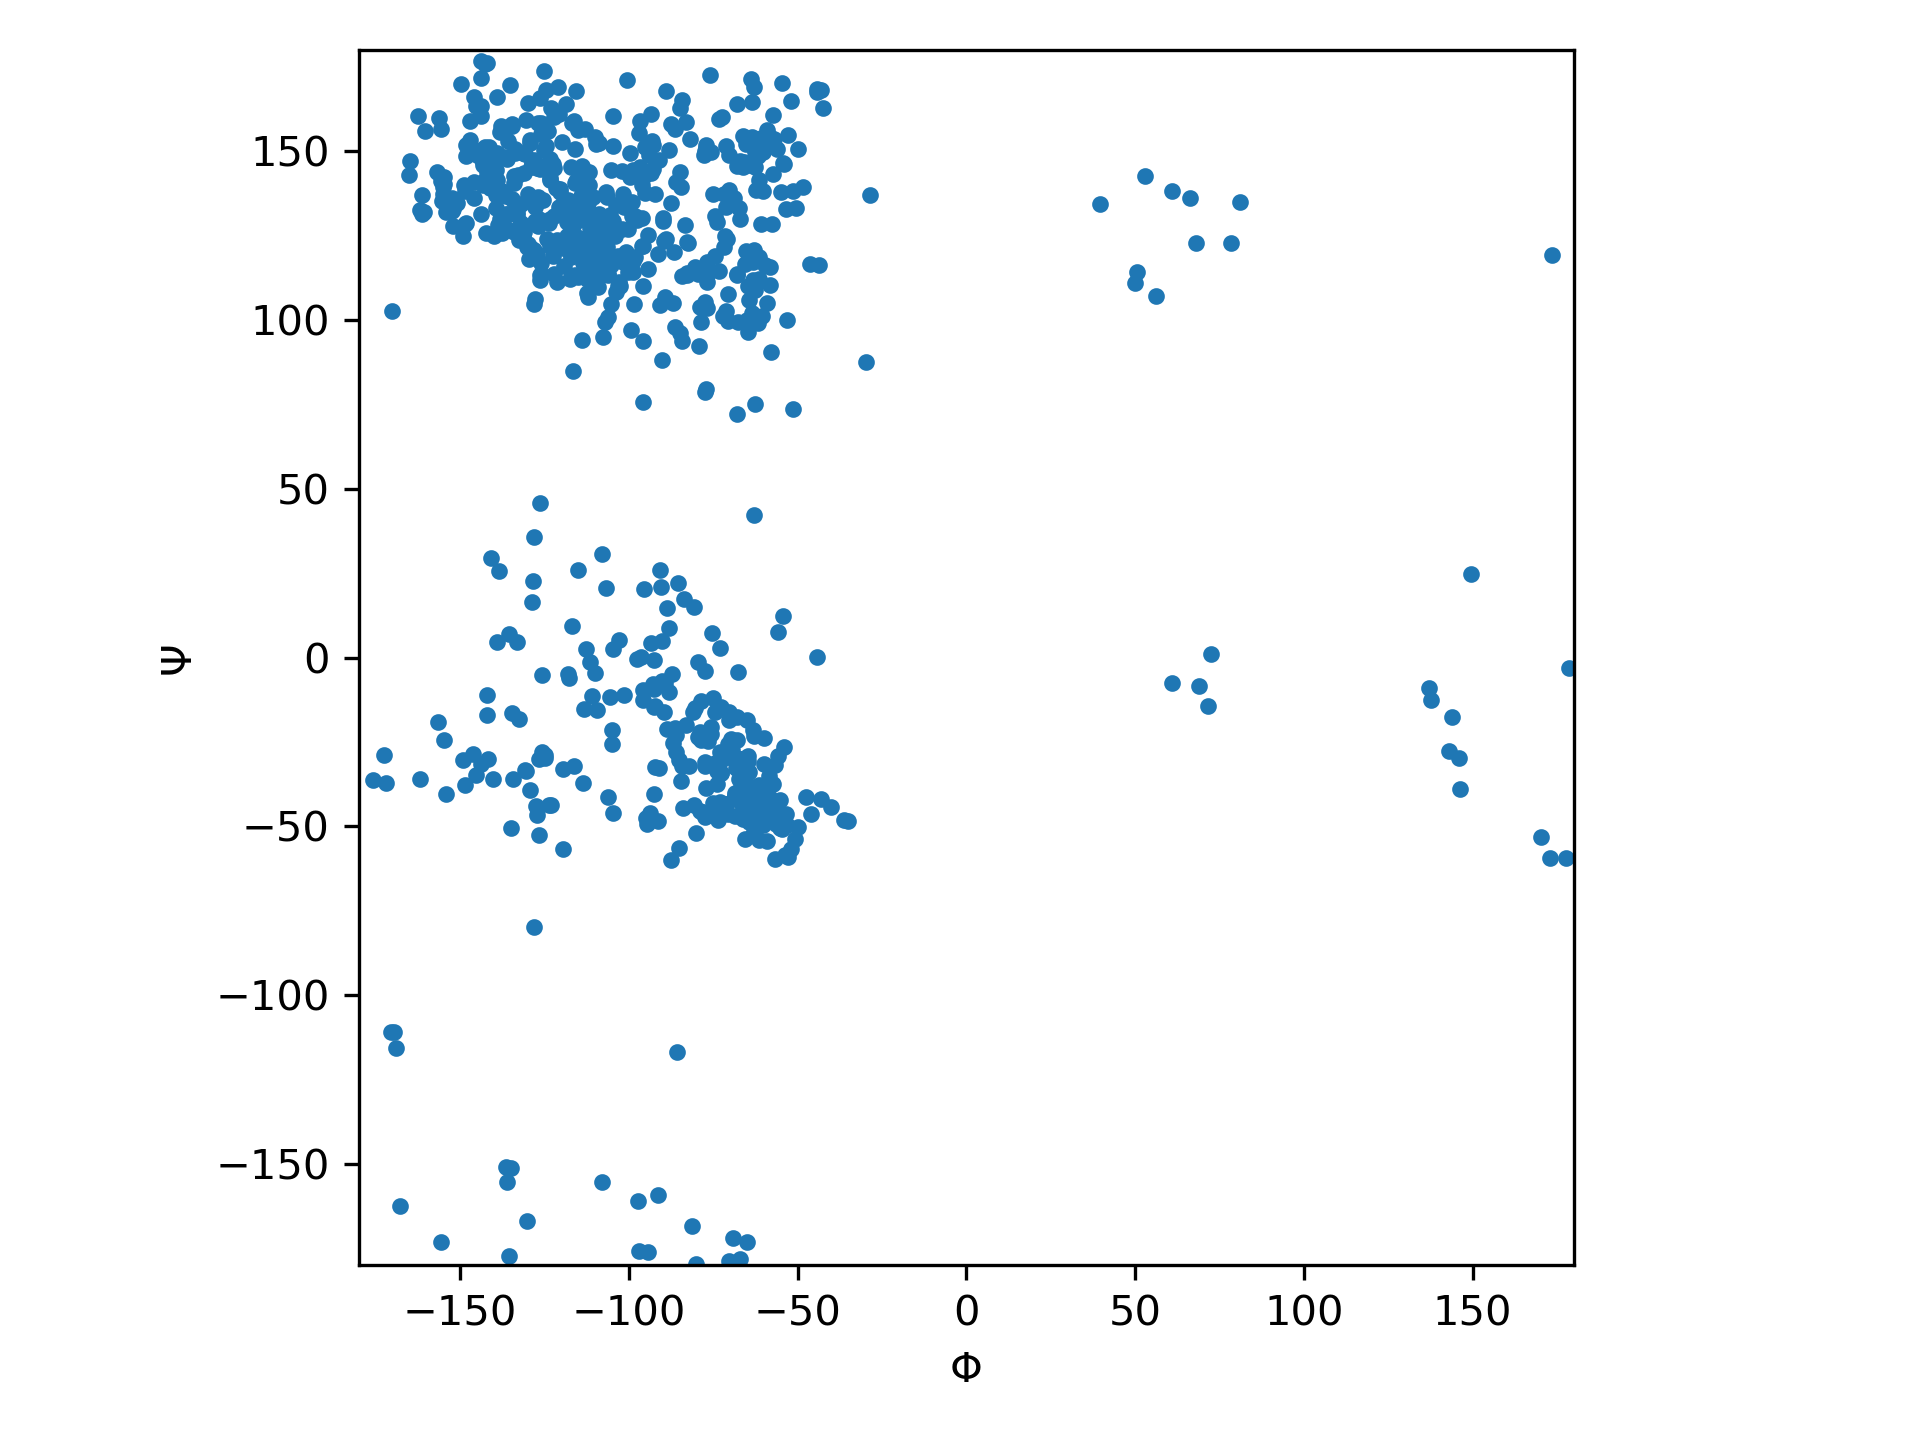
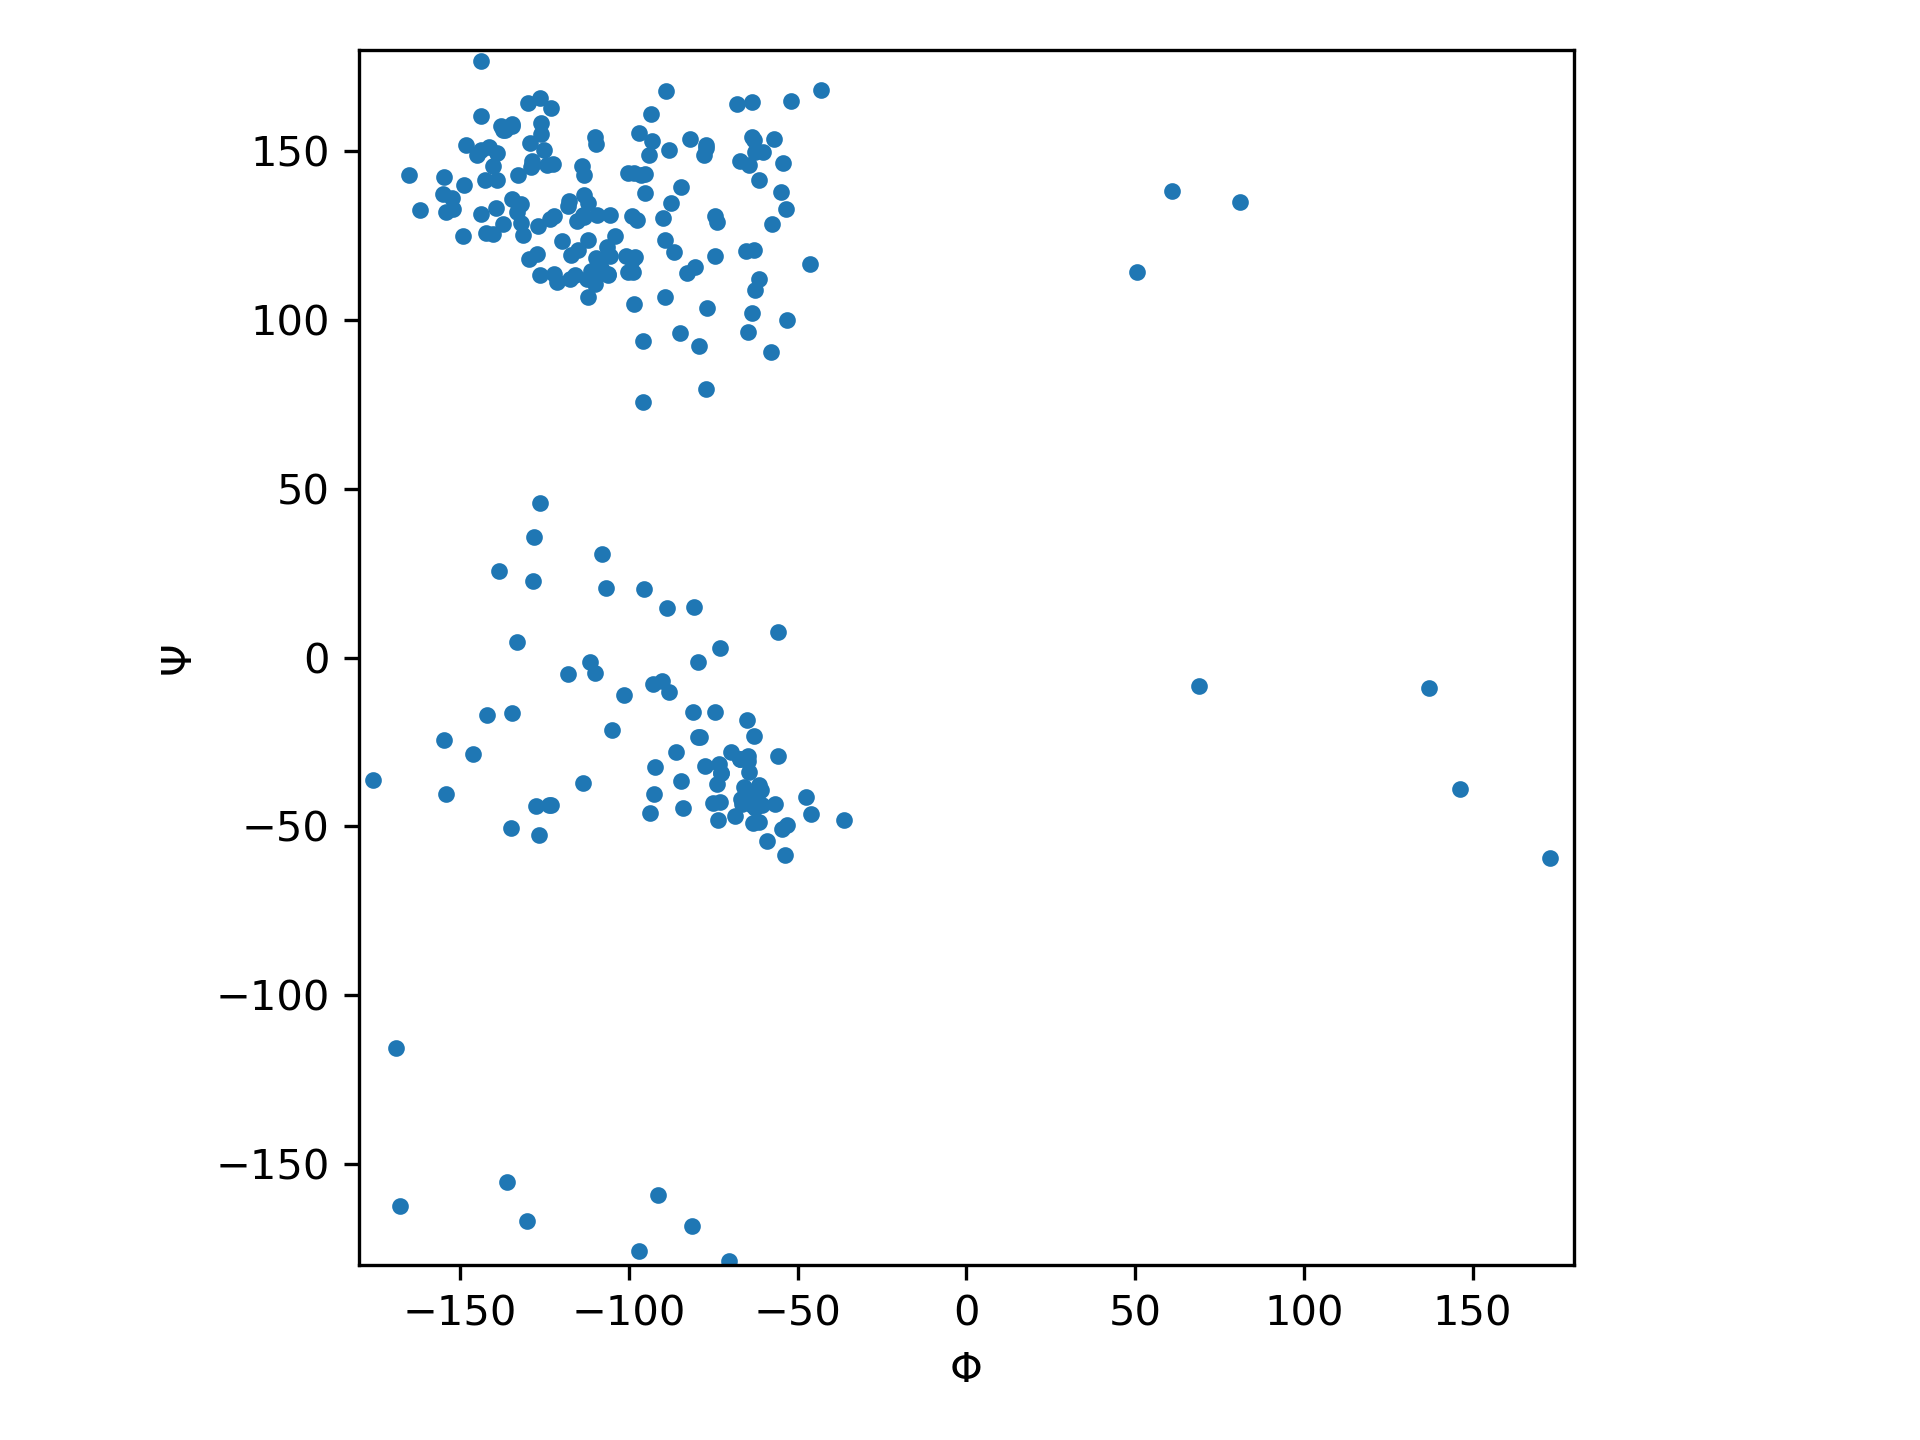
Switched around some vector calculation things, added variables + a few comments

diff --git a/Rama/rama.py b/Rama/rama.py
@@ -7,6 +7,7 @@ import matplotlib.pyplot as plt
 import requests
 import urllib
 
+#Download the pdb through https GET request if not in current working directory
 def download_pdb(pdb_name):
 	url = 'https://files.rcsb.org/download/' + pdb_name + '.pdb'
 	r = requests.get(url)
@@ -18,6 +19,7 @@ def download_pdb(pdb_name):
 		print("Error retrieving pdb file, likely due to incorrect PDB code.")
 		sys.exit(-1)
 
+#Read pdb file, returns two arrays, groups to calculate phi and psi
 def read_pdb(pdb_file):
 	if not os.path.isfile(pdb_file + ".pdb"):
 		print("Unable to find specified PDB file, downloading from RCSB...")
@@ -26,47 +28,57 @@ def read_pdb(pdb_file):
 	bb_atoms = []
 	phi_groups = []
 	psi_groups = []
-	bb_atom_names = ["CA", "C", "N"]
+	bb_atom_names = ["N", "CA", "C"]
 	chain = ""
 	with open(pdb_file + ".pdb") as f:
 		for line in f.read().splitlines():
+			#Record backbone atom coordinates
 			if line[0:4] == "ATOM" and line[13:17].strip() in bb_atom_names:
-				if line[20:23].strip() != chain:
+				#restarts at new chains - need?
+				new_chain = line[20:23].strip()
+				if new_chain != chain:
 					bb_atoms = []
-					chain = line[20:23].strip()
-				resn = int(line[23:27])
+					chain = new_chain
 				x = float(line[31:39])
 				y = float(line[39:47])
 				z = float(line[47:54])
 				bb_atoms.append((x, y, z))
 
+				atom_name = line[13:17].strip()
+				#Group last four added and append to corresponding group
 				if len(bb_atoms) > 3:
-					if line[13:17].strip() == "C":
+					if atom_name.strip() == "C":
 						phi_groups.append(np.array(bb_atoms[-4:]))
 						#phi_groups.append(bb_atoms[-4:])
-					if line[13:17].strip() == "N":
+					if atom_name.strip() == "N":
 						psi_groups.append(np.array(bb_atoms[-4:]))
 						#psi_groups.append(bb_atoms[-4:])
 
 	return phi_groups, psi_groups
 
-
+#Calculates dihedral given four coordinates (tuples of 3 floats)
 def calculate_angle(a1, a2, a3, a4):
-	b1 = subtract(a1, a2)
-	b2 = subtract(a2, a3)
-	b3 = subtract(a3, a4)
+	#obtain the vectors b1, b2 and b3 by vector subtraction
+	b1 = subtract(a2, a1)
+	b2 = subtract(a3, a2)
+	b3 = subtract(a4, a3)
 
+	#Compute n1 = <b1 x b2> and n2 = ⟨<b2 x b3>
+	#The angle we’re looking for is the same as the angle between n1 and n2
 	n1 = normalize(cross_product(b1, b2))
 	n2 = normalize(cross_product(b2, b3))
 
+	#m1 = n1 x <b2>
 	m1 = cross_product(n1, normalize(b2))
 
+	#Compute the coordinates of n2 in this frame: x = n1 . n2 and y = m1 . n2
 	x = dot_product(n1, n2)
 	y = dot_product(m1, n2)
 
-	return math.atan2(y, x) * 180/math.pi
+	#The dihedral angle, with the correct sign, is − atan2(y, x)
+	return -math.atan2(y, x) * 180/math.pi
 
-
+#Vector operations
 def add(v1, v2):
 	#return tuple(map(lambda x: sum(x), zip(v1, v2)))
 	return np.add(v1, v2)
@@ -94,12 +106,15 @@ def cross_product(v1, v2):
 	#return (x, y, z)
 	return np.cross(v1, v2)
 
+#iterate through groups
 def calculate_angles(coordinates):
 	angles = []
 	for coord in coordinates:
 		angles.append(calculate_angle(*coord))
 	return angles
 
+
+#draw graph, could be prettier probably
 def graph_ramachandran(name, phi_angles, psi_angles):
 	fig, ax = plt.subplots()
 	ax.scatter(phi_angles, psi_angles, marker='.')
@@ -126,7 +141,7 @@ graph_ramachandran(name, phi_angles, psi_angles)
 #
 #	1. Plot interesting subsets of residues
 #	2. Use NumPy to speed up vector arithmetic - done
-#	3. Make a combined plot of 10,000 structures
+#	3. Make a combined plot of 10,000 structures - done
 #	4. Automatically download PDB files
 #
 ##############################
